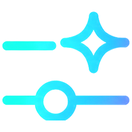
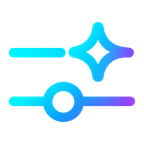
El botón de Ajustes: más pequeño, y con su icono de verdad
Tres cosas que estaban mal y una que no se veía.

  · MÁS PEQUEÑO. La píldora baja de 43 a 34 px de alto, el icono de 24
    a 18 y la palabra de 16 a 14. Un botón que se toca una vez al mes
    no debe pesar en la pantalla.

    Pero lo que responde al dedo siguen siendo 48: el enlace lleva
    margen invisible arriba y abajo. Es la única manera de tener las
    dos cosas, y ninguna pantalla de HUBI puede tener algo pulsable
    por debajo de esa medida — este botón tampoco por quedar más fino.

  · EL ICONO ES SU ARCHIVO, con su propia transparencia. Ya no se
    recorta de nada.

  · Y ASÍ SE ARREGLA LO DEL CÍRCULO. Al sacarlo antes del PNG de la
    píldora, la ventana del recorte cortaba el mando de abajo: el
    círculo salía plano por su parte inferior. Y el resplandor interior
    dejaba un velo que sobre otro fondo se veía como una caja sucia
    detrás del icono. Ninguna de las dos cosas se nota a 18 px — que es
    exactamente cómo acaban colándose.

  · La flecha, blanca y algo más gruesa, como en su dibujo. No es la
    flecha gris de las listas: aquí es parte del botón.

El botón entero también llegó como imagen y NO se usa, a propósito:
una imagen no se estira. El ancho de esta píldora lo decide la palabra
que lleva dentro, y estirando un PNG los extremos redondeados se
deformarían. Dibujado se adapta y se ve nítido en cualquier pantalla.

Claude-Session: https://claude.ai/code/session_01FTKd9B29MsnGZ2myY9aYdJ

Changed region(s): [[0.0, 0.5455, 1.0, 0.9394], [0.0, 0.0606, 1.0, 0.5758]]

diff --git a/app/iconos.tsx b/app/iconos.tsx
@@ -145,16 +145,39 @@ export function Pastilla({
   hay aquí es su botón, no una versión mía de su botón.
 
   ─────────────────────────────────────────────────────────────
+  PEQUEÑO DE VER, GRANDE DE TOCAR
+
+  La píldora mide 34 px de alto. Lo que responde al dedo son 48: el
+  enlace que la envuelve lleva un margen invisible arriba y abajo.
+
+  No es un truco — es la única manera de tener las dos cosas. Un botón
+  que se toca una vez al mes no debe pesar en la pantalla, y ninguna
+  pantalla de HUBI puede tener algo pulsable por debajo de 48 px.
+
+  ─────────────────────────────────────────────────────────────
   EL ICONO SALE DE SU PROPIO ARCHIVO
 
-  `public/ajustes-mando.png` está recortado del PNG que mandó, con el
-  fondo quitado píxel a píxel: a cada punto se le restó el color del
-  fondo y lo que quedó se convirtió en color + transparencia.
+  `public/ajustes-mando.png` es el archivo que mandó él, con su propia
+  transparencia. No se ha recortado de ningún fondo ni reconstruido:
+  se ha ajustado al dibujo y se ha bajado de tamaño, nada más.
 
-  Eso importa por algo concreto: si se hubiera recortado sin más, el
-  icono llevaría pegado un rectángulo azul marino y solo valdría sobre
-  fondo oscuro. Así vale también en modo claro, que es la mitad de las
-  veces que se abre HUBI.
+  Antes se intentó sacarlo del PNG de la píldora restándole el fondo
+  punto a punto, y salieron los dos fallos típicos de esos recortes:
+  el círculo del mando de abajo quedaba cortado —plano en vez de
+  redondo— y el resplandor interior dejaba un velo que sobre otro
+  fondo se veía como una caja sucia detrás del icono.
+
+  Ninguna de las dos cosas se nota a 18 px, que es exactamente cómo
+  acaban colándose. El archivo suyo no tiene ni una ni otra.
+
+  ─────────────────────────────────────────────────────────────
+  EL BORDE SÍ SE DIBUJA, Y NO ES CAPRICHO
+
+  También mandó el botón entero como imagen. No se usa, y el motivo es
+  que una imagen no se estira: el ancho de esta píldora lo decide la
+  palabra que lleva dentro, y en cuanto se estirase un PNG los extremos
+  redondeados se deformarían. Dibujado, se adapta y se ve nítido en
+  cualquier pantalla.
 
   ─────────────────────────────────────────────────────────────
   Y LOS COLORES DEL BORDE ESTÁN MEDIDOS, NO ELEGIDOS
@@ -189,14 +212,14 @@ export function Pastilla({
 export function BotonAjustes() {
   return (
     <span
-      className="block rounded-full p-[1.5px]"
+      className="block rounded-full p-[1.2px]"
       style={{
         background: 'linear-gradient(102deg, #00F4FC 0%, #628BFC 55%, #AE62F7 100%)',
-        boxShadow: '0 0 16px -2px rgba(0,244,252,.30), 0 0 16px -2px rgba(174,98,247,.28)',
+        boxShadow: '0 0 14px -3px rgba(0,244,252,.28), 0 0 14px -3px rgba(174,98,247,.26)',
       }}
     >
       <span
-        className="flex h-[43px] items-center gap-2.5 rounded-full pl-3 pr-2"
+        className="flex h-[34px] items-center gap-1.5 rounded-full pl-2.5 pr-1.5"
         style={{
           background: 'color-mix(in srgb, var(--t-fondo) 80%, transparent)',
           backdropFilter: 'blur(8px)',
@@ -207,12 +230,14 @@ export function BotonAjustes() {
         <img
           src="/ajustes-mando.png"
           alt=""
-          width={24}
-          height={24}
-          style={{ width: 24, height: 24, display: 'block' }}
+          width={18}
+          height={18}
+          style={{ width: 18, height: 18, display: 'block' }}
         />
-        <span className="text-[16px] font-extrabold tracking-tight text-tinta">Ajustes</span>
-        <Ico nombre="flecha" tam={18} grosor={2.2} className="text-tenue" />
+        <span className="text-[14px] font-extrabold tracking-tight text-tinta">Ajustes</span>
+        {/* Blanca y con el trazo algo más grueso, como en su dibujo.
+            No es la flecha gris de las listas: aquí es parte del botón. */}
+        <Ico nombre="flecha" tam={15} grosor={2.6} className="text-tinta" />
       </span>
     </span>
   )

diff --git a/app/page.tsx b/app/page.tsx
@@ -309,7 +309,11 @@ export default async function Inicio({
             El dibujo del botón está en `iconos.tsx`, con el porqué de
             cada pieza.
           */}
-          <Link href="/ajustes" className="shrink-0">
+          {/* El margen invisible arriba y abajo: la píldora se ve de 34
+              px y se toca de 48. Ninguna pantalla de HUBI tiene algo
+              pulsable por debajo de esa medida, y este botón no iba a
+              ser la excepción por quedar más fino. */}
+          <Link href="/ajustes" className="-mr-1 shrink-0 py-[7px] pl-2">
             <BotonAjustes />
           </Link>
         </div>
